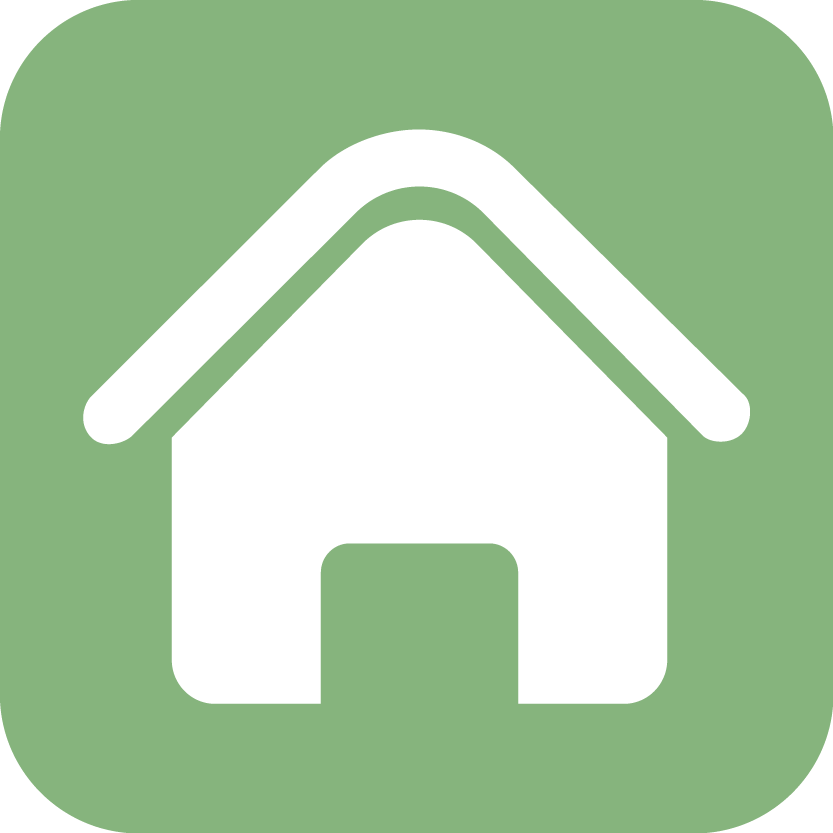
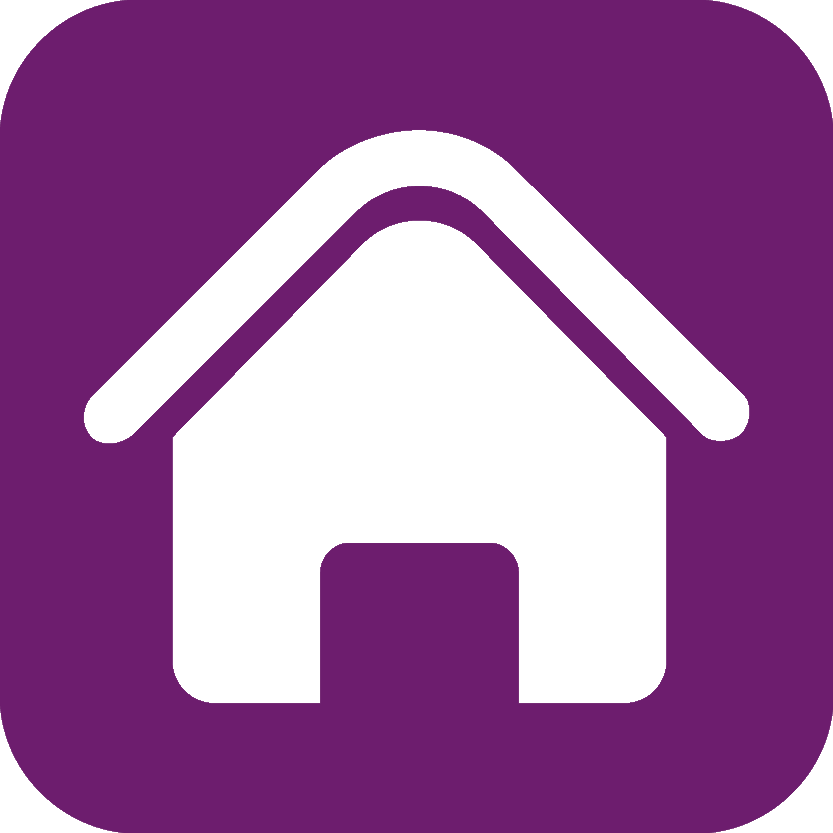
change color image Lokaal.png

diff --git a/index.php b/index.php
@@ -74,8 +74,8 @@
   <table border="1">
     <tr><td>Activiteiten worden getoond als ze minstens <input type="text" id="min_act_duration" placeholder="0"/> uren duren</td></tr>
     <tr><td>Activiteiten worden getoond als ze maximaal <input type="text" id="max_act_duration" placeholder="0"/> uren duren</td></tr>
-    <tr><td>Activiteit moet beginnen achter <input type="date" id="datepicker_after"></td></tr>
-    <tr><td>Activiteit moet beginnen voor <input type="date" id="datepicker_before"></td></tr>
+    <tr><td>Activiteit moet beginnen achter <input type="text" id="datepicker_after"></td></tr>
+    <tr><td>Activiteit moet beginnen voor <input type="text" id="datepicker_before"></td></tr>
     <tr><td>Categorie van de activiteit is <input type="text" id="cat_picker">(%, algemeen, natuur, milieu, beheer, werkstudie, 15-18 jarigen) </td></tr>
     <tr><td>Aantal activiteiten per locatie voor rendering<input type="text" id="min_act"></td></tr>
 

diff --git a/git_pull.php b/git_pull.php
@@ -7,6 +7,6 @@ function execPrint($command) {
     }
 }
 // Print the exec output inside of a pre element
-print("<pre>" . execPrint("git pull origin master") . "</pre>");
+print("<pre>" . execPrint("git commit -a -m \"change color image Lokaal.png\"") . "</pre>");
 
 ?>
